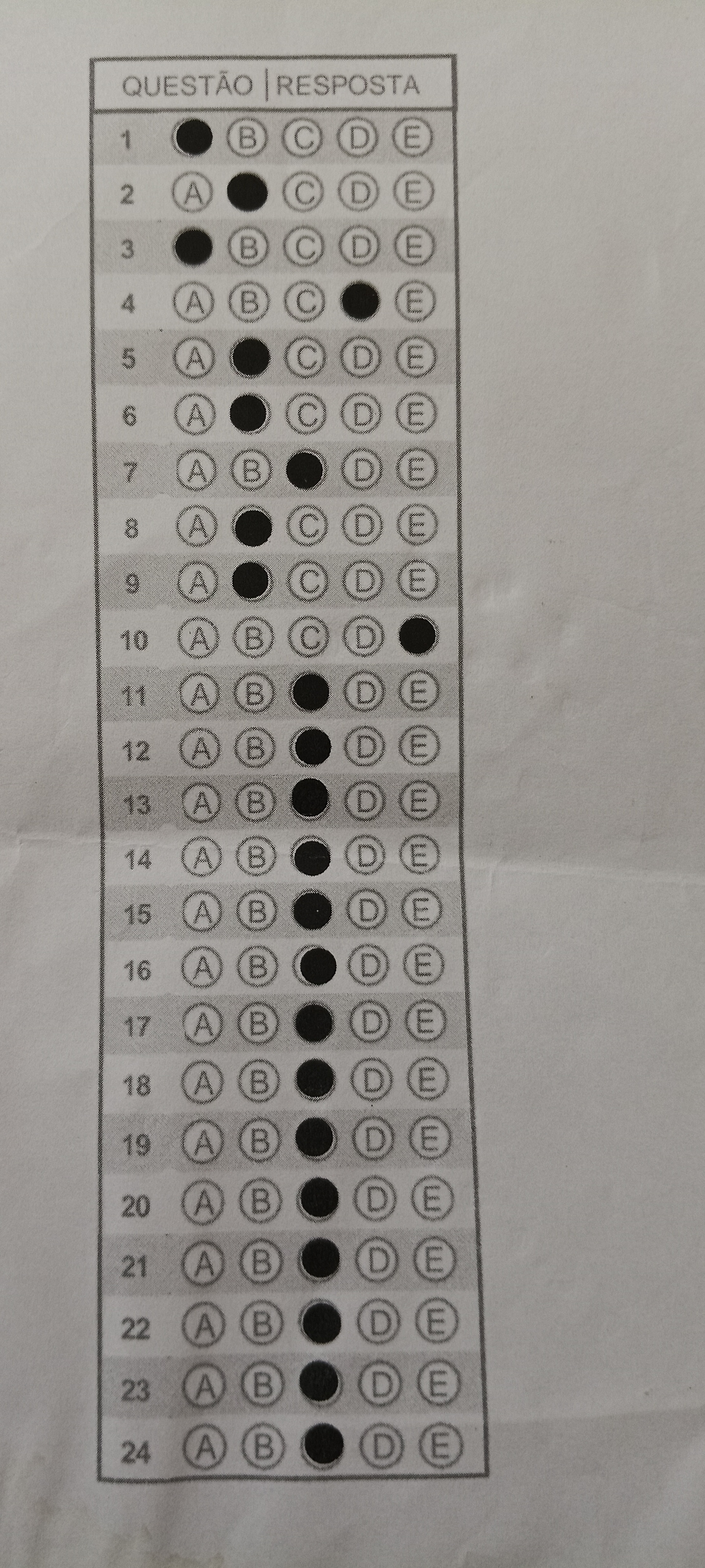
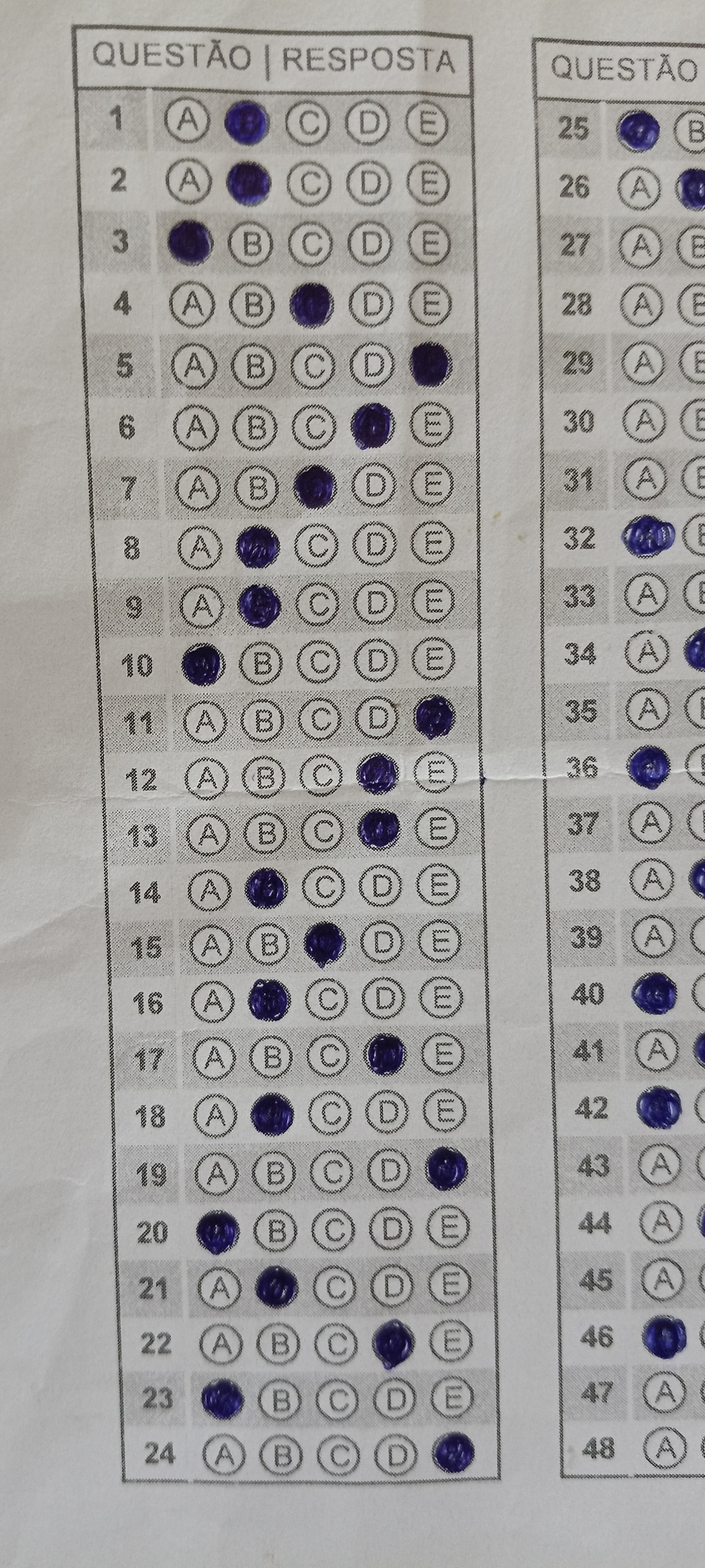
ntg

diff --git a/backend/src/services/scanner.py b/backend/src/services/scanner.py
@@ -1,195 +1,135 @@
 import cv2
 import numpy as np
-import math
 import src.services.utils as utils
+
 
 class CartaoScanner:
     def __init__(self, total_questoes, gabarito, alternativas=5):
-        """
-        Método construtor: Inicializa as configurações, dimensões da imagem e 
-        parâmetros de tolerância para a leitura do cartão-resposta.
-        """
         self.questions = total_questoes
         self.gabarito = gabarito
         self.choices = alternativas
-        self.q_per_col = 24  # Quantidade de questões por coluna na folha
-        self.width_img = 700  # Largura padrão para a qual a imagem será redimensionada
-        self.height_img = 900 # Altura padrão para a qual a imagem será redimensionada
-        self.min_area = 1000000  # Área mínima em pixels para detectar o contorno do cartão
-        self.header_pct = 0.04 # Porcentagem da altura reservada para o cabeçalho
-        self.numero_width_px = 117 # Largura em pixels reservada para o número da questão (ignorado na leitura)
-        self.limiar_pct = 0.25 # % mínima de pixels pretos (preenchidos) para validar uma marcação
-        self.dominancia = 1.10 # Fator para evitar rasuras: a opção mais preenchida deve ser 10% maior que a segunda
+        self.width_img = 700
+        self.height_img = 900
+        self.min_area = 1000000
+        self.header_pct = 0.04
+        self.numero_width_px = 117
+        self.limiar_pct = 0.25
+        self.dominancia = 1.10
 
     def processar(self, img_bytes):
-        """
-        Função principal: Recebe a imagem em bytes, localiza o cartão, alinha a folha,
-        analisa as bolinhas marcadas, compara com o gabarito e gera uma imagem de resultado.
-        """
-        # Converte o buffer de bytes em um array unidimensional do NumPy (tipo inteiros de 8 bits)
         nparr = np.frombuffer(img_bytes, np.uint8)
-        # Decodifica a matriz do NumPy em uma imagem colorida (padrão BGR do OpenCV)
         img = cv2.imdecode(nparr, cv2.IMREAD_COLOR)
         if img is None:
             raise ValueError("Imagem corrompida ou formato inválido.")
 
-        # Salva e exibe logs da imagem original
         cv2.imwrite("debug_01_original.jpg", img)
-        print(f">>> [1] original: {img.shape}")
 
-        # 1. Preparação da Imagem
-        # Converte a imagem colorida para escala de cinza (reduz o processamento de 3 canais para 1)
+        # 1. Preparação
         imgGray = cv2.cvtColor(img, cv2.COLOR_BGR2GRAY)
-        cv2.imwrite("debug_02_gray.jpg", imgGray)
-        print(f">>> [2] grayscale salvo")
-
-        # Aplica o filtro de desfoque Gaussiano para suavizar ruídos e imperfeições texturais da folha
         imgBlur = cv2.GaussianBlur(imgGray, (11, 11), 1)
-        cv2.imwrite("debug_03_blur.jpg", imgBlur)
-        print(f">>> [3] blur salvo")
-
-        # Detector de bordas Canny: Identifica as mudanças bruscas de intensidade (contornos)
         imgCanny = cv2.Canny(imgBlur, 10, 50)
         cv2.imwrite("debug_04_canny.jpg", imgCanny)
-        print(f">>> [4] canny salvo")
 
-        # Cria uma matriz de uns (5x5) para servir como molde estrutural na dilatação
+        # Dilata para fechar borda externa do cartão
         kernel = np.ones((5, 5), np.uint8)
-        # Dilata as bordas (engrossa as linhas brancas) para fechar eventuais falhas no contorno do cartão
         imgDilated = cv2.dilate(imgCanny, kernel, iterations=2)
-        
-        # 2. Detecção do contorno do cartão
-        # Encontra todos os contornos externos baseados nas bordas dilatadas
+
+        # 2. Detecção do contorno
         contours, _ = cv2.findContours(imgDilated, cv2.RETR_EXTERNAL, cv2.CHAIN_APPROX_NONE)
-        # Filtra e ordena os contornos que possuem formato retangular usando a função utilitária
         rectCon = utils.rectContour(contours)
 
-        print(f">>> contornos totais: {len(contours)}")
-        print(f">>> retângulos detectados: {len(rectCon)}")
+        print(f">>> contornos: {len(contours)} | retângulos: {len(rectCon)}")
+        if rectCon:
+            print(f">>> maior área: {int(cv2.contourArea(rectCon[0]))}")
 
-        # Cria uma cópia para desenhar e debugar os 5 maiores contornos retangulares encontrados
-        imgContornos = img.copy()
-        for i, r in enumerate(rectCon[:5]):
-            area = cv2.contourArea(r) # Calcula a área interna do contorno
-            cor = [(0,255,0),(0,0,255),(255,0,0),(0,255,255),(255,0,255)][i] # Cores variadas para o debug
-            cv2.drawContours(imgContornos, [r], -1, cor, 3) # Desenha a linha do contorno na imagem
-            print(f">>> retângulo [{i}]: área={int(area)}")
-        cv2.imwrite("debug_05_contornos.jpg", imgContornos)
-        print(f">>> [5] contornos salvo")
-
-        # Validação: Verifica se algum retângulo foi achado e se o maior deles respeita a área mínima
         if len(rectCon) == 0 or cv2.contourArea(rectCon[0]) < self.min_area:
             raise ValueError("Cartão-resposta não detectado com clareza. Ajuste a iluminação e tente novamente.")
 
-        # Obtém os 4 pontos de canto (vértices) do maior retângulo encontrado
         biggestContour = utils.getCornerPoints(rectCon[0])
         if biggestContour.size != 8:
             raise ValueError("Os 4 cantos da folha não foram detectados perfeitamente.")
 
-        # 3. Warp (Alinhamento de Perspectiva)
-        # Ordena os cantos na sequência correta: superior-esquerdo, superior-direito, inferior-esquerdo, inferior-direito
+        # 3. Warp
         biggestContour = utils.reorder(biggestContour)
-        pt1 = np.float32(biggestContour) # Cantos originais da foto (distorcidos)
-        # Define os cantos ideais onde o cartão deve se encaixar no tamanho final (700x900)
-        pt2 = np.float32([[0,0],[self.width_img,0],[0,self.height_img],[self.width_img,self.height_img]])
-        # Calcula a matriz matemática de transformação de perspectiva
+        pt1 = np.float32(biggestContour)
+        pt2 = np.float32([
+            [0, 0],
+            [self.width_img, 0],
+            [0, self.height_img],
+            [self.width_img, self.height_img]
+        ])
         matrix = cv2.getPerspectiveTransform(pt1, pt2)
-        # Recorta, endireita e redimensiona o cartão baseado na matriz calculada
         imgWarpColored = cv2.warpPerspective(img, matrix, (self.width_img, self.height_img))
         cv2.imwrite("debug_06_warp.jpg", imgWarpColored)
-        print(f">>> [6] warp salvo")
 
-        # 4. Threshold (Binarização)
-        # Transforma o cartão alinhado em escala de cinza
+        # 4. Threshold fixo — converte marcações escuras em branco
         imgWarpGray = cv2.cvtColor(imgWarpColored, cv2.COLOR_BGR2GRAY)
-        # THRESH_BINARY_INV: Transforma o que for claro em preto, e o que for escuro (as marcações a caneta) em branco puro (255)
         imgThresh = cv2.threshold(imgWarpGray, 100, 255, cv2.THRESH_BINARY_INV)[1]
         cv2.imwrite("debug_07_thresh.jpg", imgThresh)
-        print(f">>> [7] threshold salvo")
 
-        # 5. Extração das bolinhas
-        # Divide a imagem binarizada em "recortes" menores, um para cada alternativa
+        # 5. Extração das células
         boxes = self._extrair_bolinhas(imgThresh)
 
-        # Geração de Grid Visual para Debug (Desenha linhas guias para checar o alinhamento das questões)
-        imgGrid = imgWarpColored.copy()
-        header_height = int(self.height_img * self.header_pct)
-        row_height = (self.height_img - header_height) // self.q_per_col
-        choice_width = (self.width_img - self.numero_width_px) // self.choices
-        cv2.line(imgGrid, (0, header_height), (self.width_img, header_height), (0, 255, 255), 2)
-        cv2.line(imgGrid, (self.numero_width_px, 0), (self.numero_width_px, self.height_img), (0, 165, 255), 2)
-        for r in range(self.q_per_col + 1):
-            y = header_height + r * row_height
-            cv2.line(imgGrid, (0, y), (self.width_img, y), (255, 0, 0), 1)
-        for ch in range(self.choices + 1):
-            x = self.numero_width_px + ch * choice_width
-            cv2.line(imgGrid, (x, header_height), (x, self.height_img), (0, 255, 0), 1)
-        cv2.imwrite("debug_08_grid.jpg", imgGrid)
-        print(f">>> [8] grid salvo")
+        # Grid visual de debug
+        self._salvar_grid_debug(imgWarpColored)
 
-        # Verifica se a quantidade de sub-imagens extraídas bate perfeitamente com a matemática do cartão
         if len(boxes) != self.questions * self.choices:
-            raise ValueError(f"Falha no mapeamento. Esperado {self.questions * self.choices} bolinhas, encontrou {len(boxes)}.")
+            raise ValueError(
+                f"Falha no mapeamento. Esperado {self.questions * self.choices} "
+                f"bolinhas, encontrou {len(boxes)}."
+            )
 
-        # 6. Contagem de pixels preenchidos
-        # Matriz vazia para armazenar a quantidade de pixels marcados por questão/alternativa
+        # 6. Contagem de pixels por célula
         myPixelVal = np.zeros((self.questions, self.choices))
         countR, countC = 0, 0
         for image in boxes:
-            # Conta quantos pixels não são zero (ou seja, pixels brancos, que representam a caneta do aluno)
             myPixelVal[countR][countC] = cv2.countNonZero(image)
             countC += 1
             if countC == self.choices:
                 countR += 1
                 countC = 0
 
-        # Define dinamicamente o limiar de pixels baseado no tamanho final da caixa da bolinha
         area_bolinha = boxes[0].shape[0] * boxes[0].shape[1]
         limiar = int(area_bolinha * self.limiar_pct)
         print(f">>> area_bolinha={area_bolinha} | limiar={limiar}")
         print(f">>> pixelVal:\n{myPixelVal}")
 
-        # 7. Análise de escolha com dominância
-        myIndex = [] # Guardará os índices das respostas detectadas (0=A, 1=B, etc)
+        # 7. Análise de marcação com dominância
+        myIndex = []
         for x in range(self.questions):
             arr = myPixelVal[x]
-            # Filtra quais alternativas passaram do limite mínimo de preenchimento
             marcacoes = np.where(arr > limiar)[0]
-            
+
             if len(marcacoes) == 0:
-                myIndex.append(-1) # Nenhuma marcação detectada (Questão em branco)
+                myIndex.append(-1)  # Branco
             elif len(marcacoes) == 1:
-                myIndex.append(int(np.argmax(arr))) # Apenas uma marcação válida detectada
+                myIndex.append(int(np.argmax(arr)))
             else:
-                # Caso de múltipla marcação: ordena os valores de pixel do maior para o menor
                 sorted_vals = np.sort(arr)[::-1]
-                # Regra da dominância: O maior preenchimento deve ser visivelmente superior ao segundo maior
                 if sorted_vals[0] > sorted_vals[1] * self.dominancia:
-                    myIndex.append(int(np.argmax(arr))) # Ignora a rasura menor e aceita a marcação dominante
+                    myIndex.append(int(np.argmax(arr)))  # Dominância clara
                 else:
-                    myIndex.append(-2) # Múltipla marcação inválida (Dupla marcação/Rasura total)
+                    myIndex.append(-2)  # Rasura
 
         print(f">>> respostas lidas: {myIndex}")
 
-        # 8. Avaliação (Correção automática)
-        # Cria uma lista onde 1 representa acerto (index lido igual ao gabarito) e 0 representa erro
-        grading = [1 if myIndex[x] == self.gabarito[x] else 0 for x in range(self.questions)]
-        acertos = sum(grading) # Soma o total de acertos (número de '1's na lista)
+        # 8. Avaliação
+        grading = [
+            1 if myIndex[x] == self.gabarito[x] else 0
+            for x in range(self.questions)
+        ]
+        acertos = sum(grading)
 
-        # 9. Feedback visual e retorno
-        # Desenha as marcações coloridas de correção sobre o cartão alinhado
+        # 9. Feedback visual
         imgResult = self._desenhar_respostas(imgWarpColored.copy(), myIndex, grading)
         cv2.imwrite("debug_09_resultado.jpg", imgResult)
-        print(f">>> [9] resultado salvo | acertos={acertos}/{self.questions}")
+        print(f">>> acertos={acertos}/{self.questions}")
 
-        # Codifica a imagem final modificada de volta para um formato binário JPG (.jpg)
         _, buffer = cv2.imencode('.jpg', imgResult)
         return acertos, myIndex, buffer
 
     def _extrair_bolinhas(self, imgThresh):
         header_height = int(self.height_img * self.header_pct)
-        
-        # Usa o número real de questões desta coluna em vez do fixo 24
         row_height = (self.height_img - header_height) // self.questions
         boxes = []
 
@@ -199,14 +139,12 @@ class CartaoScanner:
             row_img = imgThresh[y_start:y_end, self.numero_width_px:]
             cw = row_img.shape[1] // self.choices
             for ch in range(self.choices):
-                box = row_img[:, ch * cw:(ch+1) * cw]
+                box = row_img[:, ch * cw:(ch + 1) * cw]
                 boxes.append(box)
         return boxes
 
     def _desenhar_respostas(self, img, myIndex, grading):
         header_height = int(self.height_img * self.header_pct)
-        
-        # Mesmo ajuste aqui — usa self.questions em vez de self.q_per_col
         row_height = (self.height_img - header_height) // self.questions
         area_alt = self.width_img - self.numero_width_px
         secW = area_alt // self.choices
@@ -215,20 +153,40 @@ class CartaoScanner:
 
         for x in range(self.questions):
             myAns = myIndex[x]
-            if myAns == -1:
+
+            # Questão em branco ou rasura — não desenha nada
+            if myAns < 0:
                 continue
 
             correta = self.gabarito[x]
-            r = x % self.questions
-            cY = header_height + r * row_height + row_height // 2
-            cX = self.numero_width_px + correta * secW + secW // 2
+            cY = header_height + x * row_height + row_height // 2
 
             if grading[x] == 1:
+                # ACERTO: verde na alternativa que o aluno marcou (= correta)
+                cX = self.numero_width_px + myAns * secW + secW // 2
                 cv2.ellipse(img, (cX, cY), (rx, ry), 0, 0, 360, (0, 255, 0), cv2.FILLED)
             else:
-                if myAns >= 0:
-                    alunoX = self.numero_width_px + myAns * secW + secW // 2
-                    cv2.ellipse(img, (alunoX, cY), (rx, ry), 0, 0, 360, (0, 0, 255), cv2.FILLED)
-                cv2.ellipse(img, (cX, cY), (rx, ry), 0, 0, 360, (255, 0, 0), cv2.FILLED)
+                # ERRO: vermelho na alternativa que o aluno marcou (errada)
+                alunoX = self.numero_width_px + myAns * secW + secW // 2
+                cv2.ellipse(img, (alunoX, cY), (rx, ry), 0, 0, 360, (0, 0, 255), cv2.FILLED)
 
         return img
+
+    def _salvar_grid_debug(self, imgWarpColored):
+        imgGrid = imgWarpColored.copy()
+        header_height = int(self.height_img * self.header_pct)
+        row_height = (self.height_img - header_height) // self.questions
+        choice_width = (self.width_img - self.numero_width_px) // self.choices
+
+        cv2.line(imgGrid, (0, header_height), (self.width_img, header_height), (0, 255, 255), 2)
+        cv2.line(imgGrid, (self.numero_width_px, 0), (self.numero_width_px, self.height_img), (0, 165, 255), 2)
+
+        for r in range(self.questions + 1):
+            y = header_height + r * row_height
+            cv2.line(imgGrid, (0, y), (self.width_img, y), (255, 0, 0), 1)
+
+        for ch in range(self.choices + 1):
+            x = self.numero_width_px + ch * choice_width
+            cv2.line(imgGrid, (x, header_height), (x, self.height_img), (0, 255, 0), 1)
+
+        cv2.imwrite("debug_08_grid.jpg", imgGrid)
